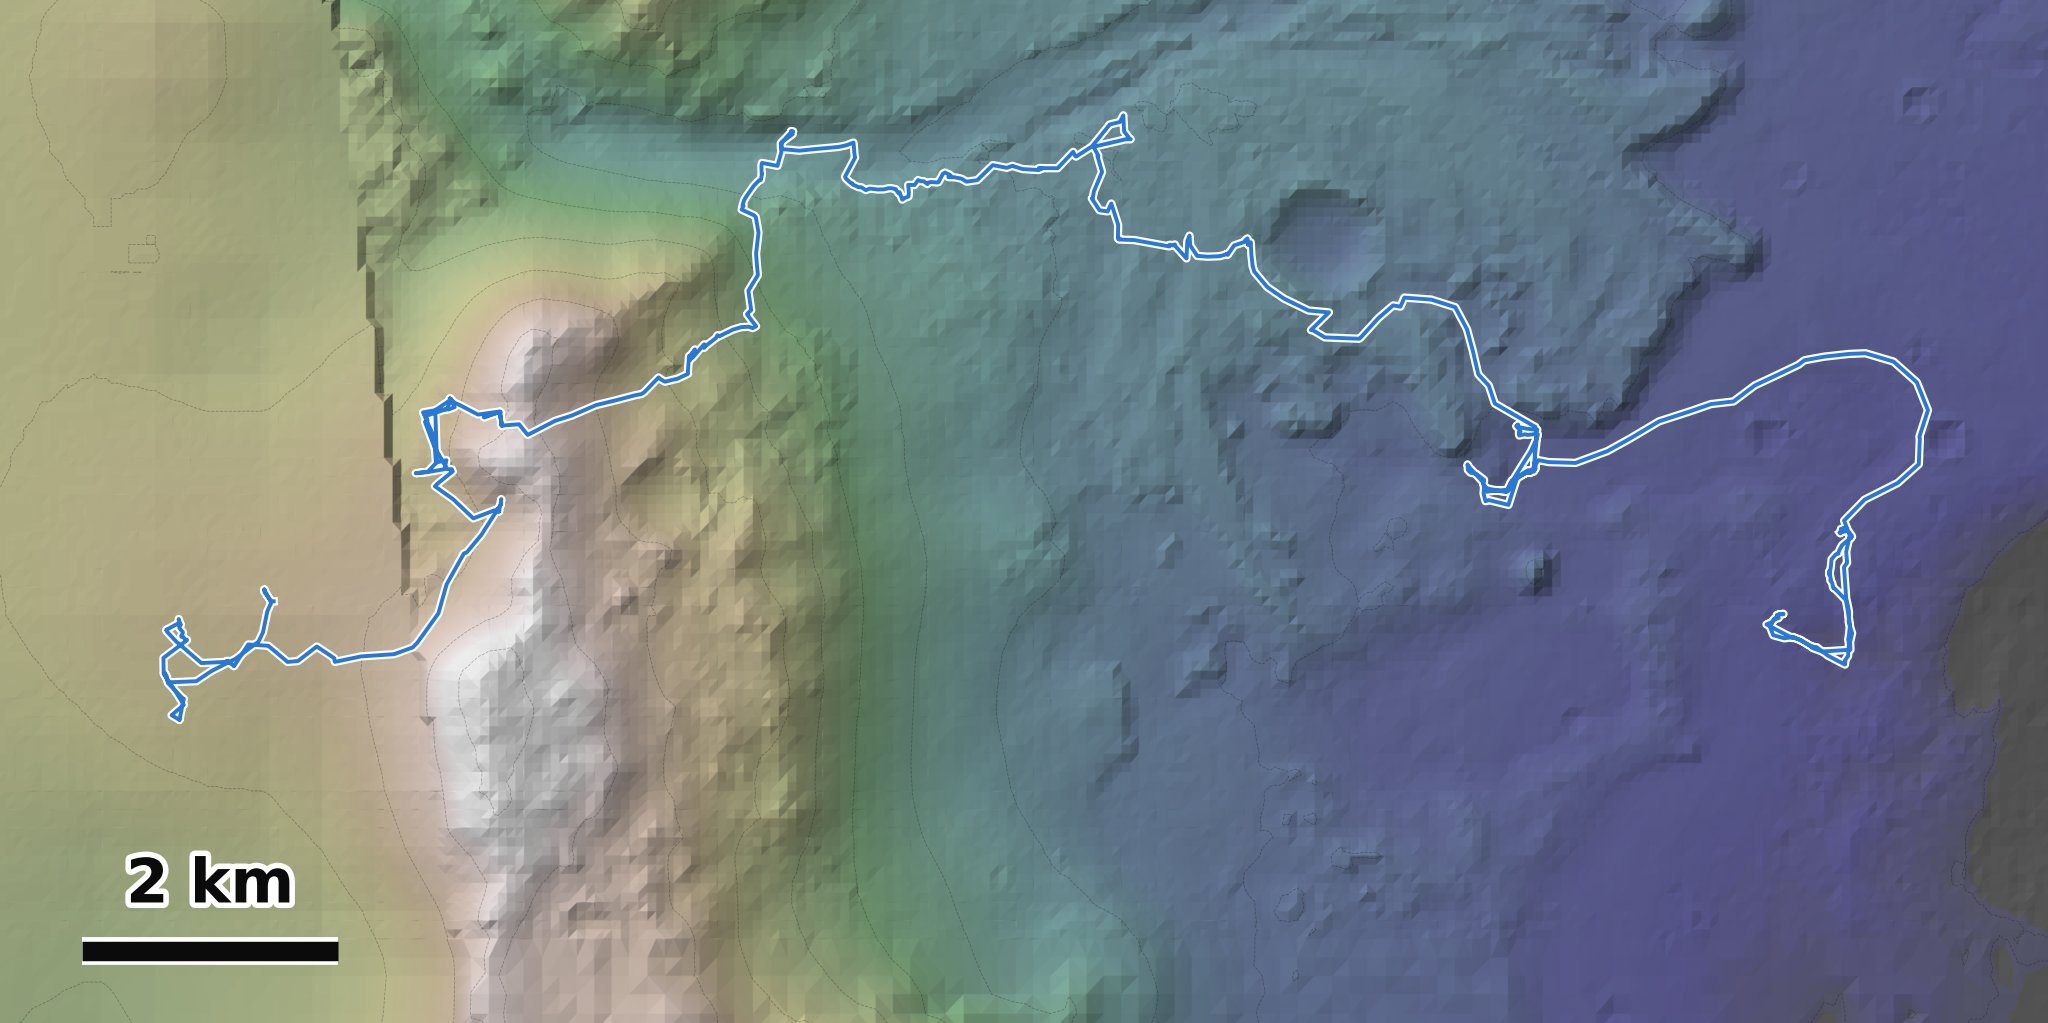
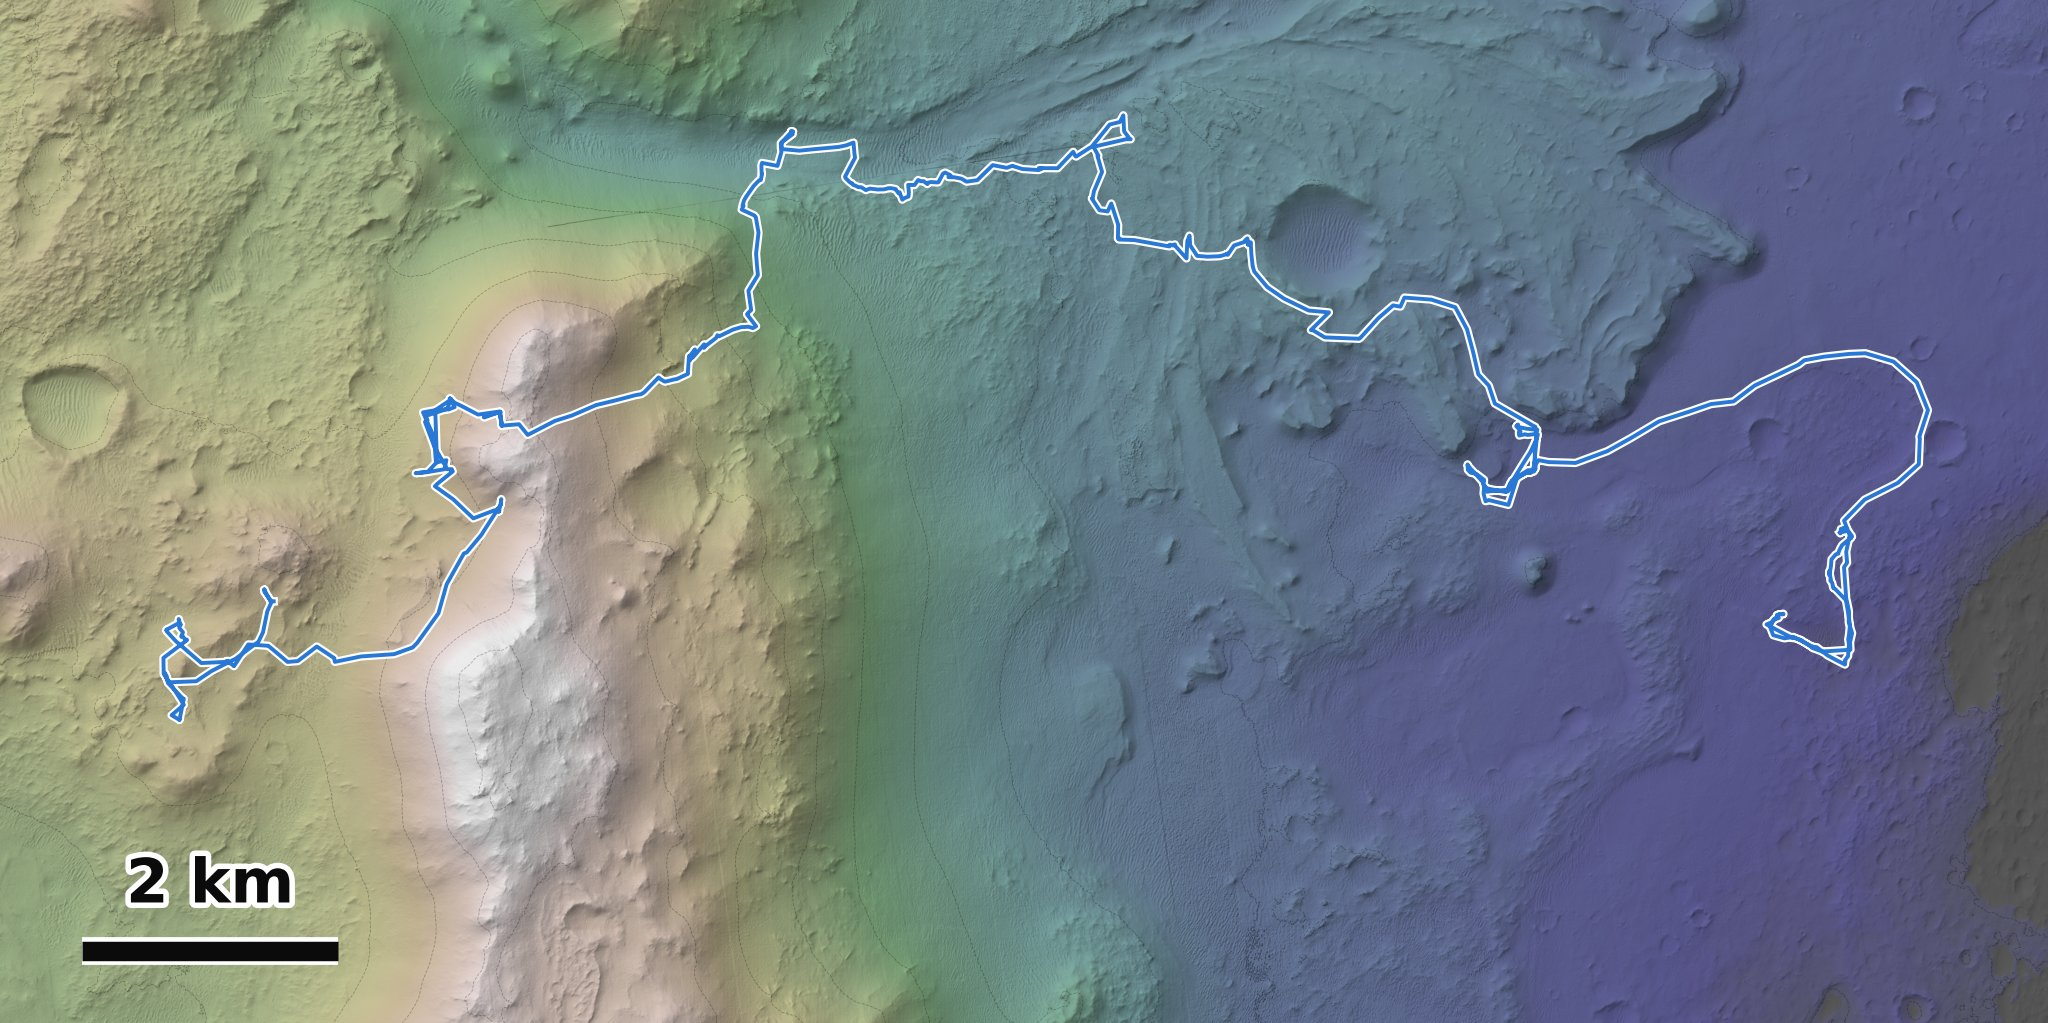
Viewer: page and panoramas Sol0052_S003D2046 (RPP 0.99.52)

diff --git a/index.html b/index.html
@@ -36,7 +36,7 @@ if (location.hostname === 'ctate7163.github.io' && (/^\/(RPP|MPPP)\/ods(\/|$)/i.
   Headset (0.98.4): right trigger = next station, left trigger = the one before, thumbstick left / right = turn,
   X = info page on the left hand (site, sol, map), A = the next view (0.99.37: standard color, raw color, enhanced color,
   enhanced tone, dcs color, normal map, distance map),
-  right grip = terrain, left grip = the rover (0.99.40; grip = variant before)   (0.98.13: A and X swapped)
+  either grip = the rover on / off (0.99.52; 0.99.40: right grip = terrain), Y held 1 s = leave VR (0.99.52)   (0.98.13: A and X swapped)
   0.98.28: Y = home (the welcome view, facing west); on a screen the house button or H.  0.99.41: B = terrain stereo <->
   terrain full 3D (the color skins are in both; before, B was terrain only and again the next color skin).
   The 3D rover is set again at the eyes' center whenever the station, the variant or the view changes and when R
@@ -109,9 +109,9 @@ if (location.hostname === 'ctate7163.github.io' && (/^\/(RPP|MPPP)\/ods(\/|$)/i.
   <button id="home" title="welcome view, facing west (H; headset: Y)" aria-label="home"><svg width="18" height="18" viewBox="0 0 24 24" fill="none" stroke="currentColor" stroke-width="2.2" stroke-linejoin="round"><path d="M3 11.5 12 4l9 7.5"/><path d="M5.5 9.5V20h5v-6h3v6h5V9.5"/></svg></button>
   <span id="title">Rover Photogrammetry Viewer</span>
   <select id="station" title="station"></select>
-  <select id="variant" title="terrain: stereo panorama, local 3D, full 3D (V; headset: right grip)"></select>
-  <select id="view" title="view"></select>
-  <select id="eye" title="which eye's panorama a screen shows - or the center, where the station has it (a headset shows both eyes)">
+  <select id="view" title="color view (space; headset: A)"></select>
+  <select id="variant" title="terrain: stereo panorama or 3D (V or B; headset: B)"></select>
+  <select id="eye" title="terrain stereo: which eye's panorama a screen shows - or the center, where the station has it (a headset shows both eyes)">
     <option value="left">left eye</option><option value="right">right eye</option>
   </select>
 </div>
@@ -499,13 +499,17 @@ async function swapSkin(url) {
   if (url) {
     t = skinTex.url === url ? skinTex.t : null;
     if (!t) {
+      if (skinTex.t) {                               // 0.99.52: the last skin freed before the next is decoded (a headset's
+        for (const m of roverParts) if (m.material.uniforms && m.material.uniforms.map && m.material.uniforms.map.value === skinTex.t && m.userData.baseTex) m.material.uniforms.map.value = m.userData.baseTex;
+        skinTex.t.dispose(); if (skinTex.t.image && skinTex.t.image.close) skinTex.t.image.close();   // memory: three 8K
+        skinTex = { url: null, t: null };            // textures at once did not fit)
+      }
       const bmp = await createImageBitmap(await (await fetch(url)).blob());
       if (id !== swapId || rid !== roverId) { bmp.close(); return; }
       t = new THREE.Texture(bmp);
       t.flipY = false; t.wrapS = THREE.RepeatWrapping; t.generateMipmaps = true; t.colorSpace = THREE.NoColorSpace;
       t.minFilter = THREE.LinearMipmapLinearFilter; t.anisotropy = Math.min(8, renderer.capabilities.getMaxAnisotropy());
       t.needsUpdate = true;
-      if (skinTex.t) { skinTex.t.dispose(); if (skinTex.t.image && skinTex.t.image.close) skinTex.t.image.close(); }
       skinTex = { url, t };
     }
   }
@@ -716,7 +720,7 @@ const VIEWER_NAME = 'Rover Photogrammetry Viewer (RPV)';
 // 0.99.36 (Christian, 19 Nov 2026: "please put the rpp-rpv viewer version number on the lower left above the site name,
 // images size, and version on which the site was rendered"): the page's own version (the RPP release that wrote it;
 // tests/test_station_mesh.py keeps it equal to rpp.__version__), above the station's line
-const RPV_VERSION = '0.99.48';
+const RPV_VERSION = '0.99.52';
 $('ver').textContent = `RPV viewer ${RPV_VERSION}`;
 const CREDIT = 'Created by Christian Tate at MSSS';   // 0.99.14 (Christian, 17 Nov 2026: 'remove the "for research purposes" phrase')
 // 0.99.39 (Christian, 19 Nov 2026: "remove the code: ... text from the welcome screen"): the credit alone, no link to
@@ -760,7 +764,7 @@ function showWelcome(on) {
                                  { text: 'Mars 2020 Perseverance rover', px: 120, weight: 700 }]), WELCOME_AZ_DEG, 14, 5, 4.2));
     ctlHeadset = place(textPanel([{ text: 'trigger: next site   |   left trigger: back   |   stick: turn', px: 84, weight: 600 },
                                  { text: 'X: info and map   |   Y: home   |   A: view', px: 84, weight: 600 },
-                                 { text: 'B: stereo / full 3D   |   right grip: terrain   |   left grip: rover', px: 84, weight: 600 },
+                                 { text: 'B: stereo / 3D   |   grip: rover on / off   |   hold Y: leave VR', px: 84, weight: 600 },
                                  { text: 'stick click: drive the rover (beta)   |   in the drive: sticks forward / back', px: 84, weight: 600 }],
                                 { back: 'rgba(0,0,0,0.35)', uniform: true }), WELCOME_AZ_DEG, -6, 5, 3.6);   // 0.99.14: one size
     // 0.99.37 (Christian, 19 Nov 2026: "In the browser 2d version. Show a differ set of controls, including using the
@@ -811,7 +815,8 @@ function siteName(p) {                                        // the title witho
 function menuLabel(p) {
   if (p.welcome) return p.title || 'Welcome';
   const sols = solsOf(p);
-  return sols.length ? `Sol ${String(sols[0]).padStart(4, '0')} ${siteName(p)}` : siteName(p);
+  const nm = siteName(p).replace(/\s*\(zcam\)/i, ' Mastcam-Z');   // 0.99.52: "replace (zcam) with Mastcam-Z"
+  return sols.length ? `Sol ${String(sols[0]).padStart(4, '0')} ${nm}` : nm;
 }
 function infoLines() {
   const p = panos[cur.s] || {};
@@ -948,10 +953,12 @@ const viewLabel = k => VIEW_LABEL[k] || k;
 // hidden. Driver mode uses the full 3D terrain and rover"): the menu chooses the terrain; the rover button (R) shows or
 // hides the rover - in stereo the with-rover panorama, in the 3D modes the 3D rover; the drive is the steering wheel,
 // shown only with ?experimental=1.  panos.json keeps its variants: the terrain and the rover pick one of them.
-const TERRAIN_MODES = [['stereo', 'terrain stereo'], ['local', 'terrain local 3D'], ['full', 'terrain full 3D']];
-const MODE_OF = { masked: 'stereo', rover: 'stereo', rover3d: 'stereo', terrain3d: 'local', scape3d: 'full', drive3d: 'drive' };
-const MODE_KEYS = { local: ['terrain3d'], full: ['scape3d'], drive: ['drive3d'] };
-const MODE_FALLBACK = { drive: 'full', full: 'local', local: 'stereo' };   // where a station lacks the mode
+// 0.99.52 (Christian, 20 Nov 2026: "remove the terrain 3d local for now so that the viewer just shows terrain stereo or
+// terrain 3D"): two modes; a station without the full 3D file shows its station mesh (terrain3d) as terrain 3D
+const TERRAIN_MODES = [['stereo', 'terrain stereo'], ['full', 'terrain 3D']];
+const MODE_OF = { masked: 'stereo', rover: 'stereo', rover3d: 'stereo', terrain3d: 'full', scape3d: 'full', drive3d: 'drive' };
+const MODE_KEYS = { full: ['scape3d', 'terrain3d'], drive: ['drive3d'] };
+const MODE_FALLBACK = { drive: 'full', full: 'stereo' };   // where a station lacks the mode
 const EXPERIMENTAL = new URLSearchParams(location.search).get('experimental') === '1';
 let mode = 'stereo';
 const modeKeys = m => m === 'stereo' ? (roverOn ? ['rover', 'rover3d'] : ['masked']) : MODE_KEYS[m] || [];
@@ -987,12 +994,12 @@ function fill() {
   $('station').value = cur.s;
   $('variant').innerHTML = modesOf(p).map(([m, label]) => `<option value="${m}">${label}</option>`).join('');   // 0.99.40
   $('variant').value = mode === 'drive' ? 'full' : mode;
-  $('eye').style.display = isWhole(variants(p)[cur.v]) ? 'none' : '';     // no panorama in the full 3D terrain
+  $('eye').style.display = mode === 'stereo' ? '' : 'none';      // 0.99.52: the eyes are the stereo panorama's
   $('view').innerHTML = views(p, cur.v).map((k, i) => `<option value="${i}">${viewLabel(k)}</option>`).join('');
   $('view').value = cur.w;
   centerOk = !!centerFileOf();                                   // 0.99.36: center, where this choice has one
-  $('eye').innerHTML = '<option value="left">left eye</option><option value="right">right eye</option>' +
-    (centerOk ? '<option value="center">center</option>' : '');
+  $('eye').innerHTML = '<option value="left">left eye</option>' +     // 0.99.52: the center between the eyes
+    (centerOk ? '<option value="center">center</option>' : '') + '<option value="right">right eye</option>';
   $('eye').value = screenEye;
 }
 
@@ -1099,7 +1106,7 @@ async function show() {
     // 0.99.40 (Christian, 19 Nov 2026: "the 3d terrain should preferably use the same texture as the full 3d texture"):
     // the local 3D terrain is the full 3D file's terrain - the same 20 m mesh and its texture, its shell to the horizon
     // left out, the panorama behind it - where the station has the full 3D file; else the station mesh
-    const scape = mode === 'local' ? variants(p).find(q => q.key === 'scape3d' && q.station_mesh) : null;
+    const scape = null;                                          // 0.99.52: no local 3D mode
     const sm = scape ? Object.assign({}, scape.station_mesh, { whole: false, drive: undefined, noHorizon: true }) : vr.station_mesh;
     const dView = /^(distance|range)/.test(names[cur.w] || '');   // 0.99.41: a 3D mode's distance map from its surfaces
     const skinFile = sm && sm.skins && sm.skins[names[cur.w]];      // 0.99.41: the color skin of the full 3D texture
@@ -1176,7 +1183,7 @@ function goHome() {
 function stereoOrFull() {
   const p = panos[cur.s] || {};
   const ms = modesOf(p).map(x => x[0]);
-  const to = mode === 'stereo' ? (ms.includes('full') ? 'full' : ms.includes('local') ? 'local' : 'stereo') : 'stereo';
+  const to = mode === 'stereo' ? (ms.includes('full') ? 'full' : 'stereo') : 'stereo';
   pick(p, to, viewName());
   show();
 }
@@ -1358,7 +1365,9 @@ for (let i = 0; i < 2; i++) {
   c.addEventListener('selectstart', e => step('s', e.data && e.data.handedness === 'left' ? -1 : 1));   // right trigger: next
   //                                                                                       station; left trigger: the one before
   // 0.99.40: right grip - the next terrain mode; left grip - the rover shown or hidden (grip: the next variant before)
-  c.addEventListener('squeezestart', e => { if (e.data && e.data.handedness === 'left') roverToggle(); else step('v', 1); });
+  // 0.99.52 (Christian, 20 Nov 2026: "The grip button doesn't show and hide the rover like it used to"): either grip -
+  // the right one was the terrain mode since 0.99.40, which B is
+  c.addEventListener('squeezestart', () => roverToggle());
   scene.add(c);
 }
 const held = new Map();                         // per controller and button: pressed in the last frame
@@ -1369,7 +1378,7 @@ function pressed(src, i) {                       // button i of this controller 
   held.set(key, is);
   return is && !was;
 }
-let stickL = 0, stickR = 0;
+let stickL = 0, stickR = 0, yDown = 0, yDone = false;
 function buttons(dt) {                           // xr-standard: button 4 is A (right) / X (left), button 5 is B (right) / Y (left)
   const session = renderer.xr.getSession();
   if (!session) return;
@@ -1378,7 +1387,15 @@ function buttons(dt) {                           // xr-standard: button 4 is A (
     if (!gp) continue;
     const left = src.handedness === 'left';
     if (pressed(src, 4)) { if (left) toggleInfo(); else step('w', 1); }       // 0.98.13: X (left): info; A (right): the next view
-    if (pressed(src, 5)) { if (left) goHome(); else stereoOrFull(); }         // 0.98.28: Y (left): home, facing west; B (right): 0.99.41 stereo / full 3D
+    // 0.99.52 (Christian, 20 Nov 2026: "want to escape the vr mode ... back to the 2d browser view" without the system's
+    // quit dialog, which the Meta button always shows): Y held for a second ends the session; a short press is home
+    if (left) {
+      const down = !!(gp.buttons[5] && gp.buttons[5].pressed), now = performance.now();
+      if (down && !yDown) { yDown = now; yDone = false; }
+      if (down && !yDone && now - yDown > 1000) { yDone = true; session.end(); return; }
+      if (!down && yDown) { if (!yDone) goHome(); yDown = 0; }
+    } else if (pressed(src, 5)) stereoOrFull();
+    if (false) { if (left) goHome(); else stereoOrFull(); }         // 0.98.28: Y (left): home, facing west; B (right): 0.99.41 stereo / full 3D
     // 0.99.40 (Christian, 19 Nov 2026: "In VR mode, enter driving/ steering mode with a click on the joystick. Left and
     // right still rotate the view and forward and back on the left and right controler works in like skid steering"):
     // a thumbstick click (xr-standard button 3) starts the drive where the station has it, and ends it
